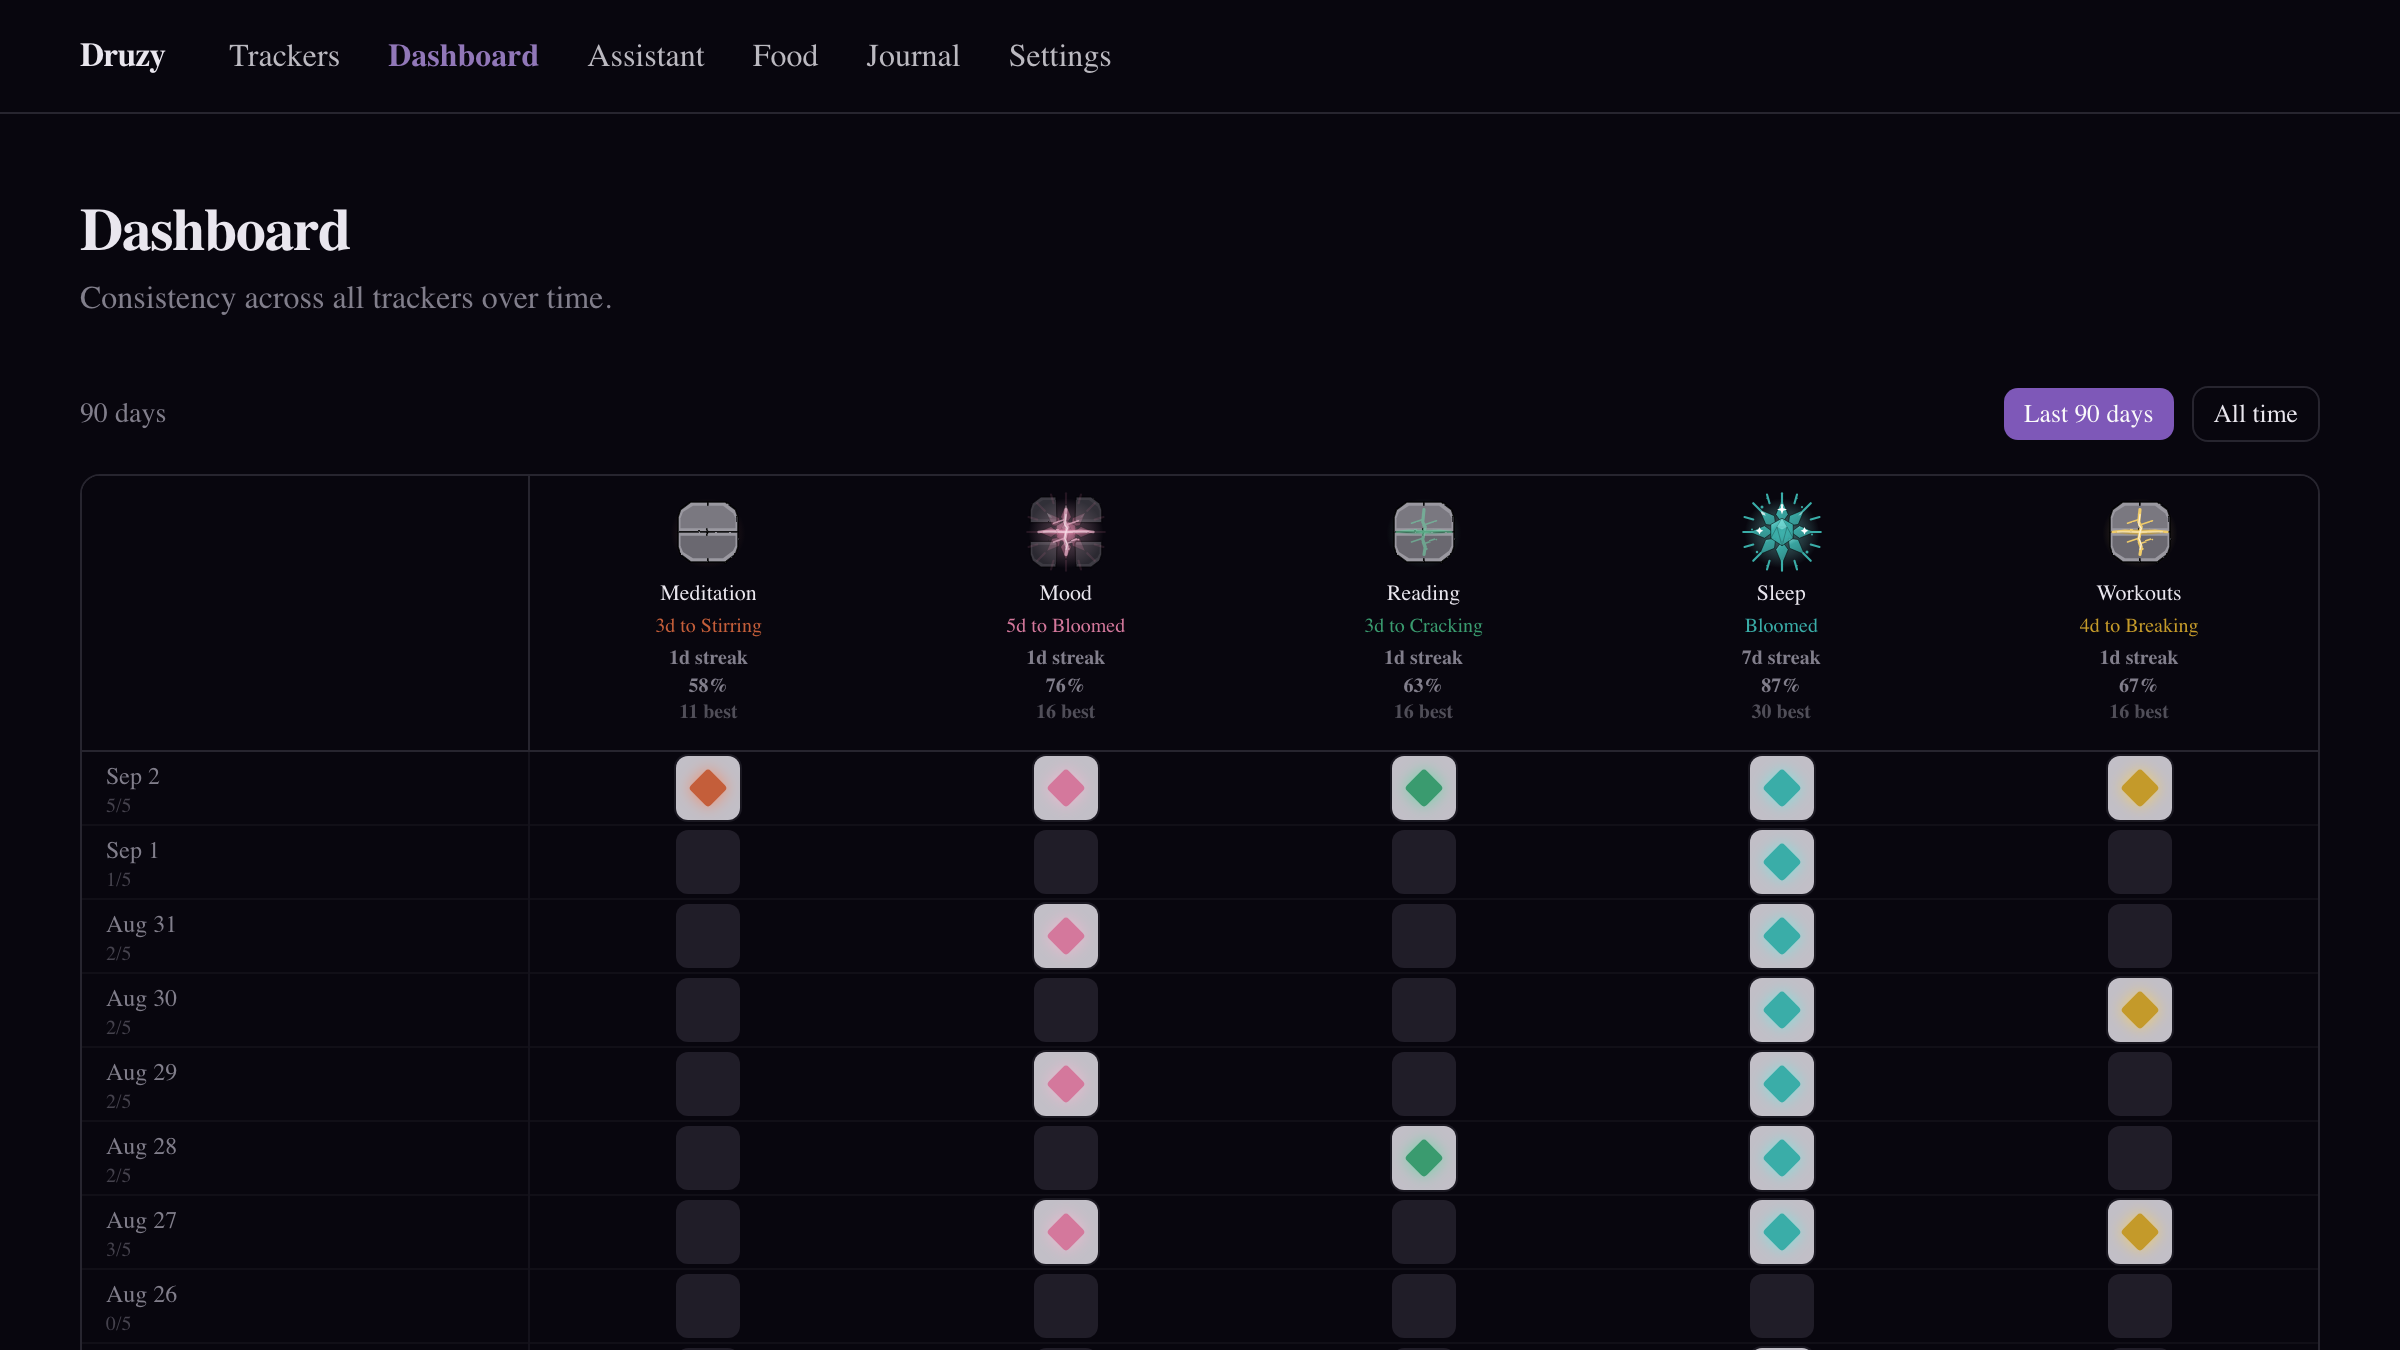
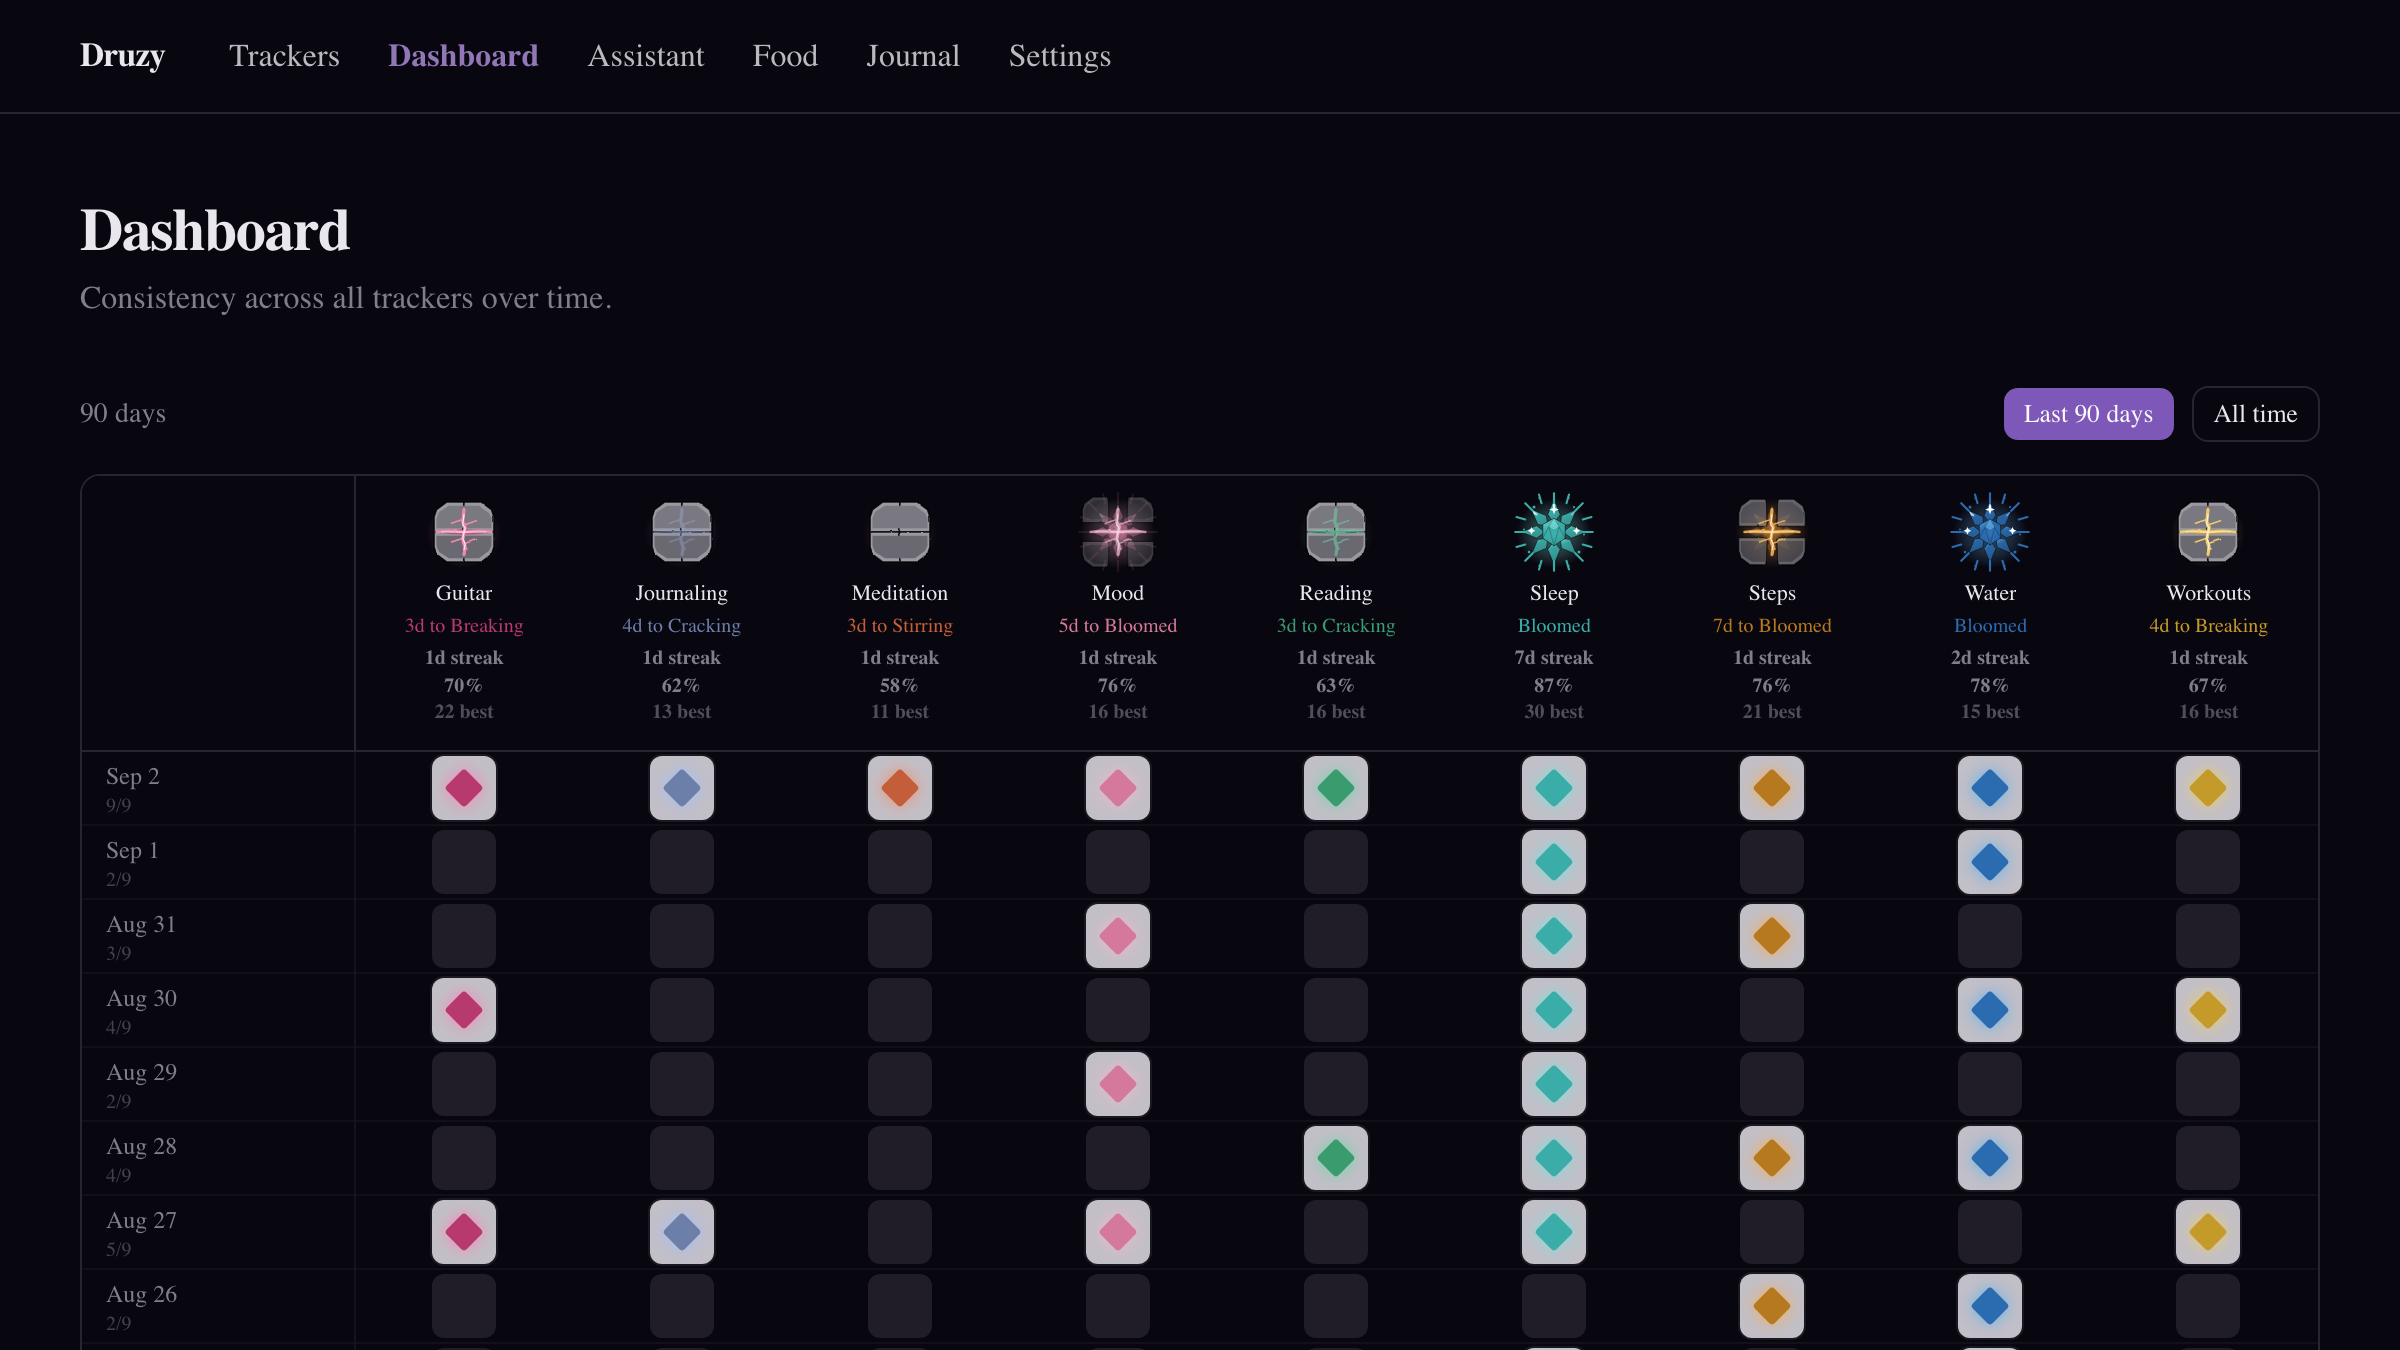
Give project covers room to breathe; expand the Druzy demo
Covers were bleeding edge-to-edge inside a 460px card and a 640px modal,
which left every screenshot unreadable. Insets them with padding, a rounded
border and a soft ground, and widens the modal to 900px so a full screenshot
is legible.

Druzy demo grows to nine trackers on nine crystals, spanning the full range
of geode stages. Also corrects the NOMAD blurb: eight algorithms, not six.

diff --git a/index.html b/index.html
@@ -81,7 +81,7 @@
   .card{
     background:rgba(253,246,236,.035);
     border:1px solid var(--line);
-    border-radius:14px;padding:28px 28px 26px;
+    border-radius:14px;padding:22px 22px 24px;
     position:relative;overflow:hidden;
     transition:transform .25s ease,border-color .25s ease,background .25s ease;
     will-change:transform;
@@ -97,7 +97,8 @@
 
   /* --- project cards as buttons --- */
   .card{display:block;width:100%;text-align:left;font:inherit;color:inherit;cursor:pointer}
-  .card-cover{width:calc(100% + 56px);margin:-28px -28px 18px;display:block;aspect-ratio:16/9;object-fit:cover;border-bottom:1px solid var(--line)}
+  .card-cover{width:100%;margin:0 0 20px;display:block;aspect-ratio:16/9;object-fit:cover;
+    border:1px solid var(--line);border-radius:10px;background:rgba(253,246,236,.04)}
   .card.is-source{visibility:hidden}
 
   /* --- everything-else compact list --- */
@@ -118,11 +119,12 @@
   dialog.project-modal[open]{display:flex;align-items:center;justify-content:center}
   dialog.project-modal::backdrop{background:rgba(26,26,46,.85)}
   @supports (backdrop-filter:blur(6px)){dialog.project-modal::backdrop{backdrop-filter:blur(6px);-webkit-backdrop-filter:blur(6px)}}
-  .modal-flip{position:relative;width:min(640px,100%);max-height:calc(100vh - 48px);overflow-y:auto;background:var(--ink);border:1px solid var(--line);border-radius:14px;opacity:0;transition:opacity .22s ease,transform .22s ease}
+  .modal-flip{position:relative;width:min(900px,100%);max-height:calc(100vh - 48px);overflow-y:auto;background:var(--ink);border:1px solid var(--line);border-radius:14px;opacity:0;transition:opacity .22s ease,transform .22s ease}
   .modal-flip.is-open{opacity:1}
   .modal-close{position:absolute;top:14px;right:14px;z-index:2;width:32px;height:32px;border-radius:50%;border:1px solid var(--line);background:rgba(26,26,46,.7);color:var(--cream);font-size:.9rem;line-height:1;cursor:pointer;transition:border-color .2s,color .2s}
   .modal-close:hover,.modal-close:focus-visible{border-color:var(--brass);color:var(--brass)}
-  .modal-media{aspect-ratio:16/9;overflow:hidden;border-radius:14px 14px 0 0;background:rgba(253,246,236,.04)}
+  .modal-media{aspect-ratio:16/9;overflow:hidden;margin:22px 22px 0;border-radius:10px;
+    border:1px solid var(--line);background:rgba(253,246,236,.04)}
   .modal-cover{width:100%;height:100%;object-fit:cover;display:block}
   .modal-content{padding:28px 32px 34px;opacity:0;transform:translateY(8px);transition:opacity .18s ease,transform .18s ease}
   .modal-content.in{opacity:1;transform:none}

diff --git a/projects.js b/projects.js
@@ -16,7 +16,7 @@ export const PROJECTS = [
     year: 2026,
     featured: true,
     accent: 'var(--blue)',
-    blurb: 'An interactive dashboard for comparing six GPS stop-detection algorithms, built for an NSF-funded mobility-science lab at Penn.',
+    blurb: 'An interactive dashboard for comparing eight GPS stop-detection algorithms, built for an NSF-funded mobility-science lab at Penn.',
     cover: 'assets/projects/nomad-stop-detection-dashboard/cover.png',
     media: [],
     tags: ['Next.js 16', 'React 19', 'Python', 'GeoPandas', 'Mobility Science'],
